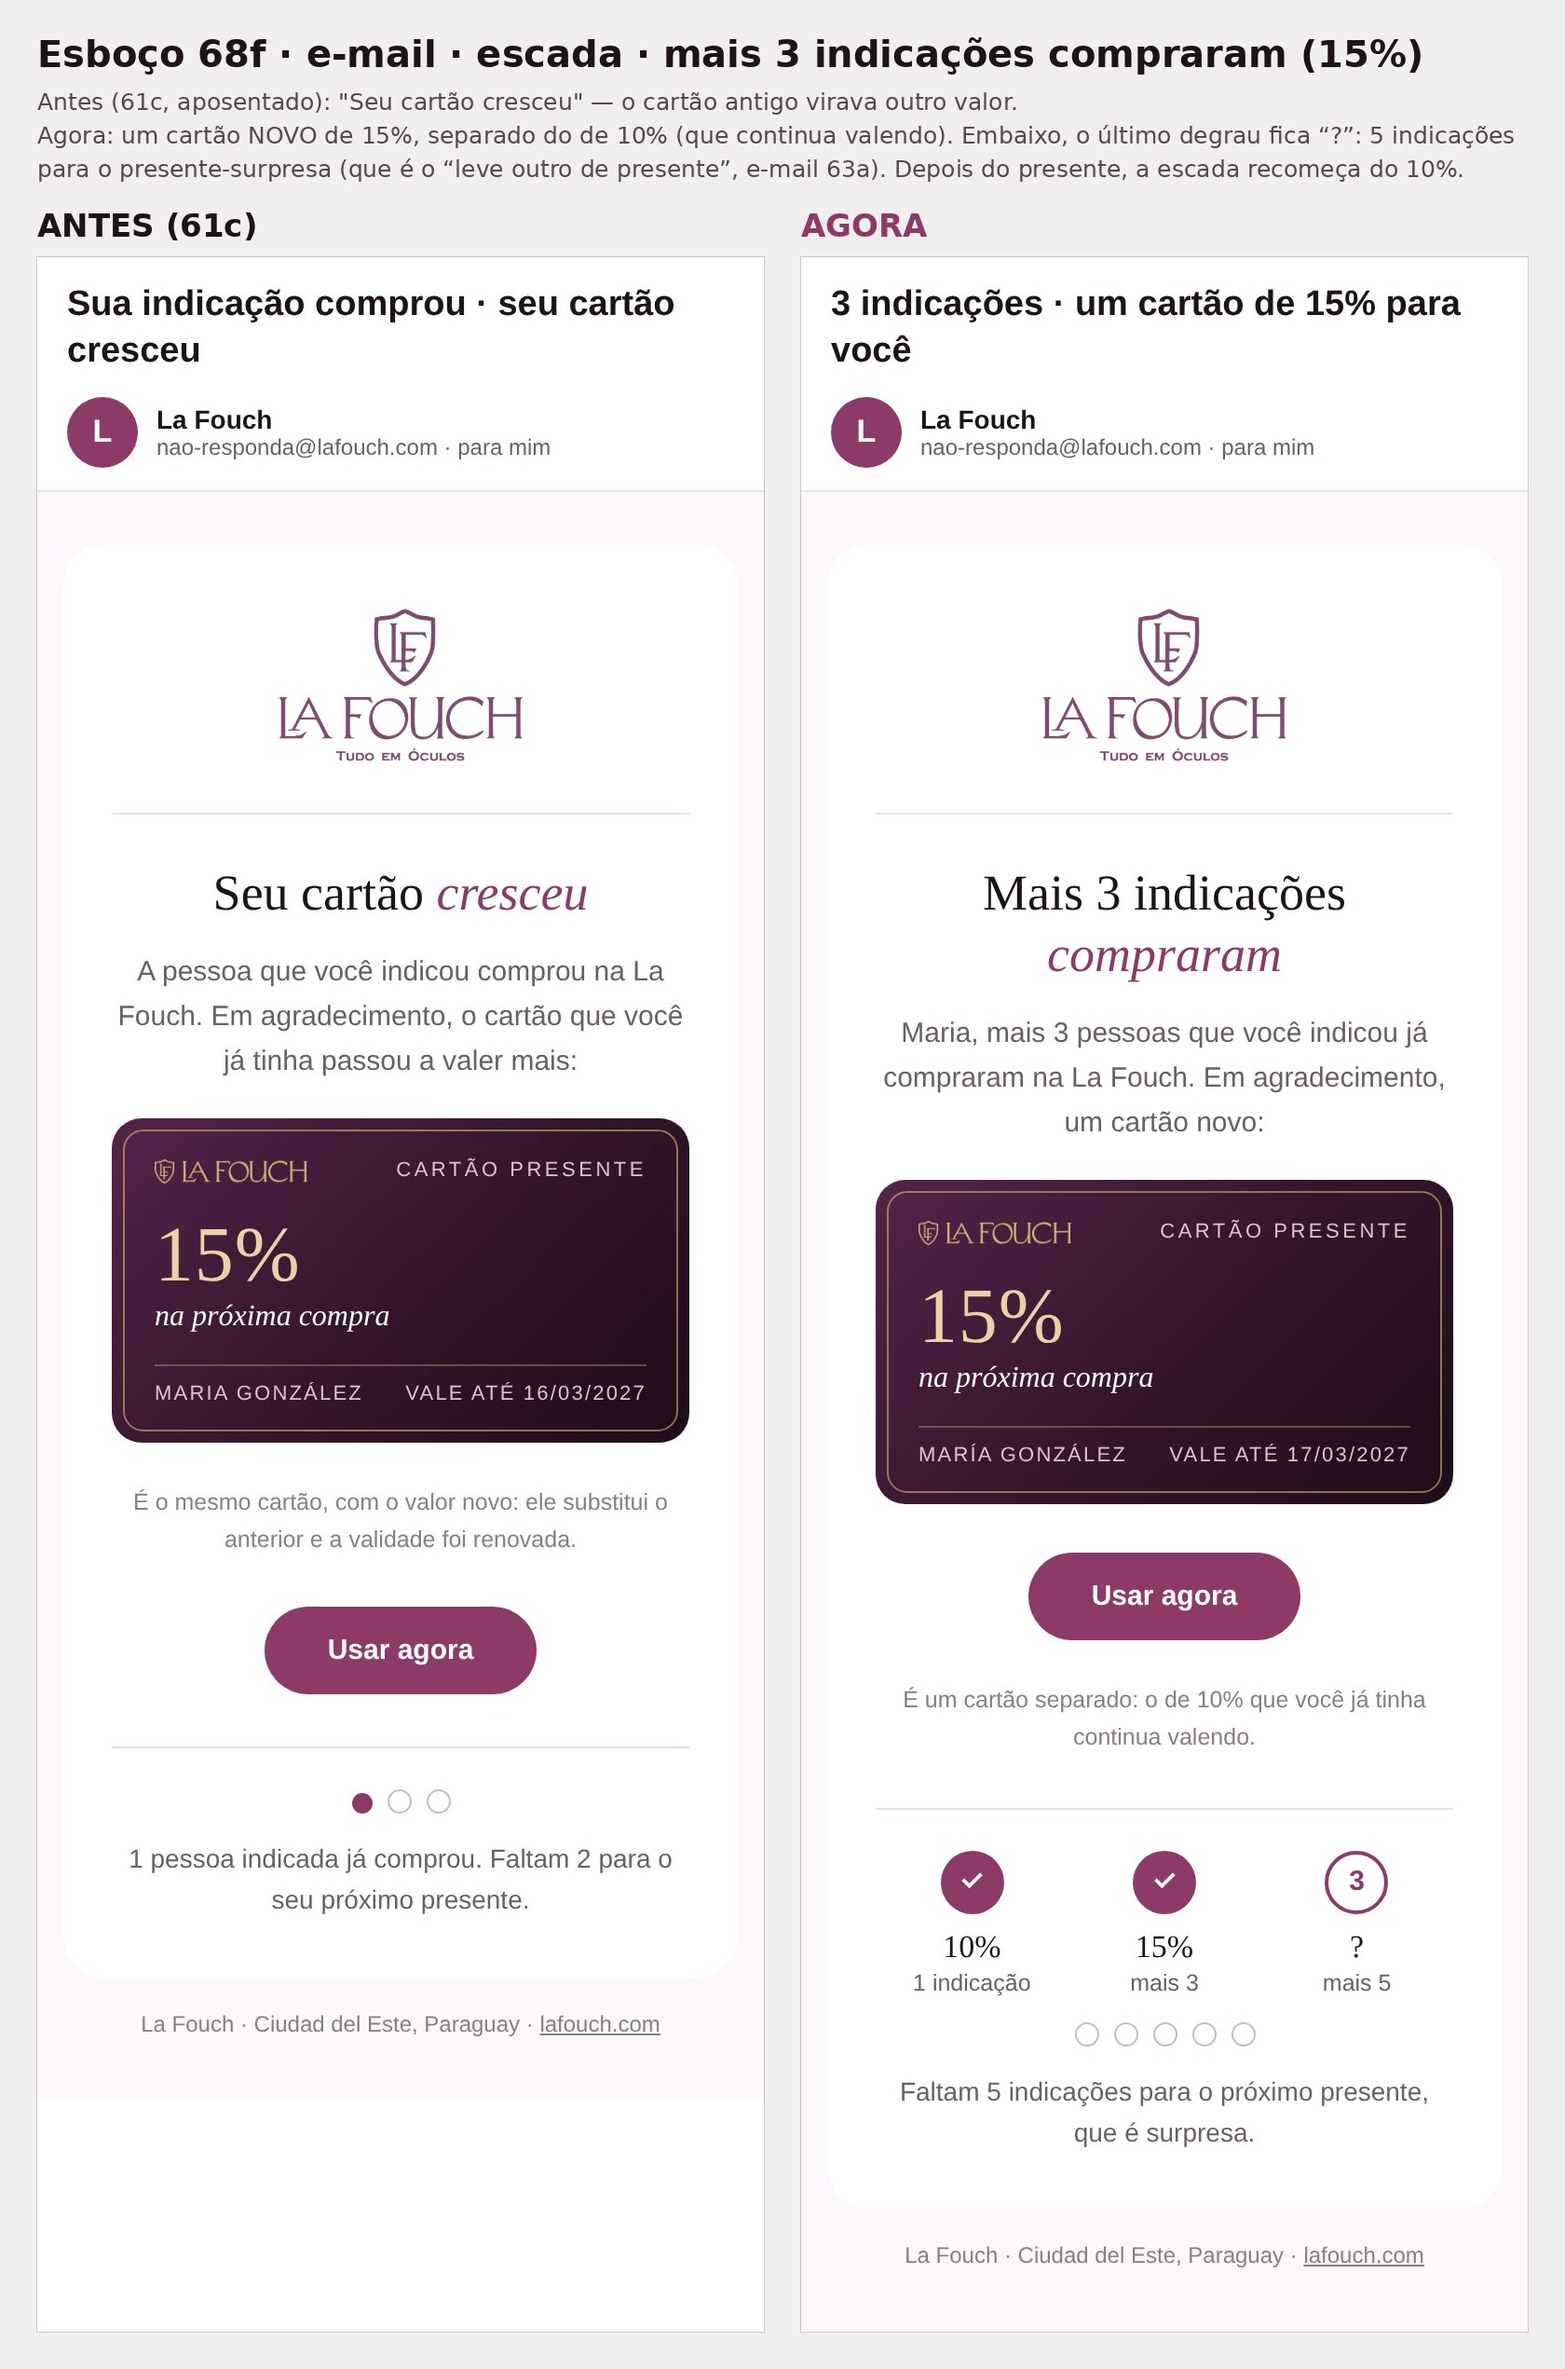
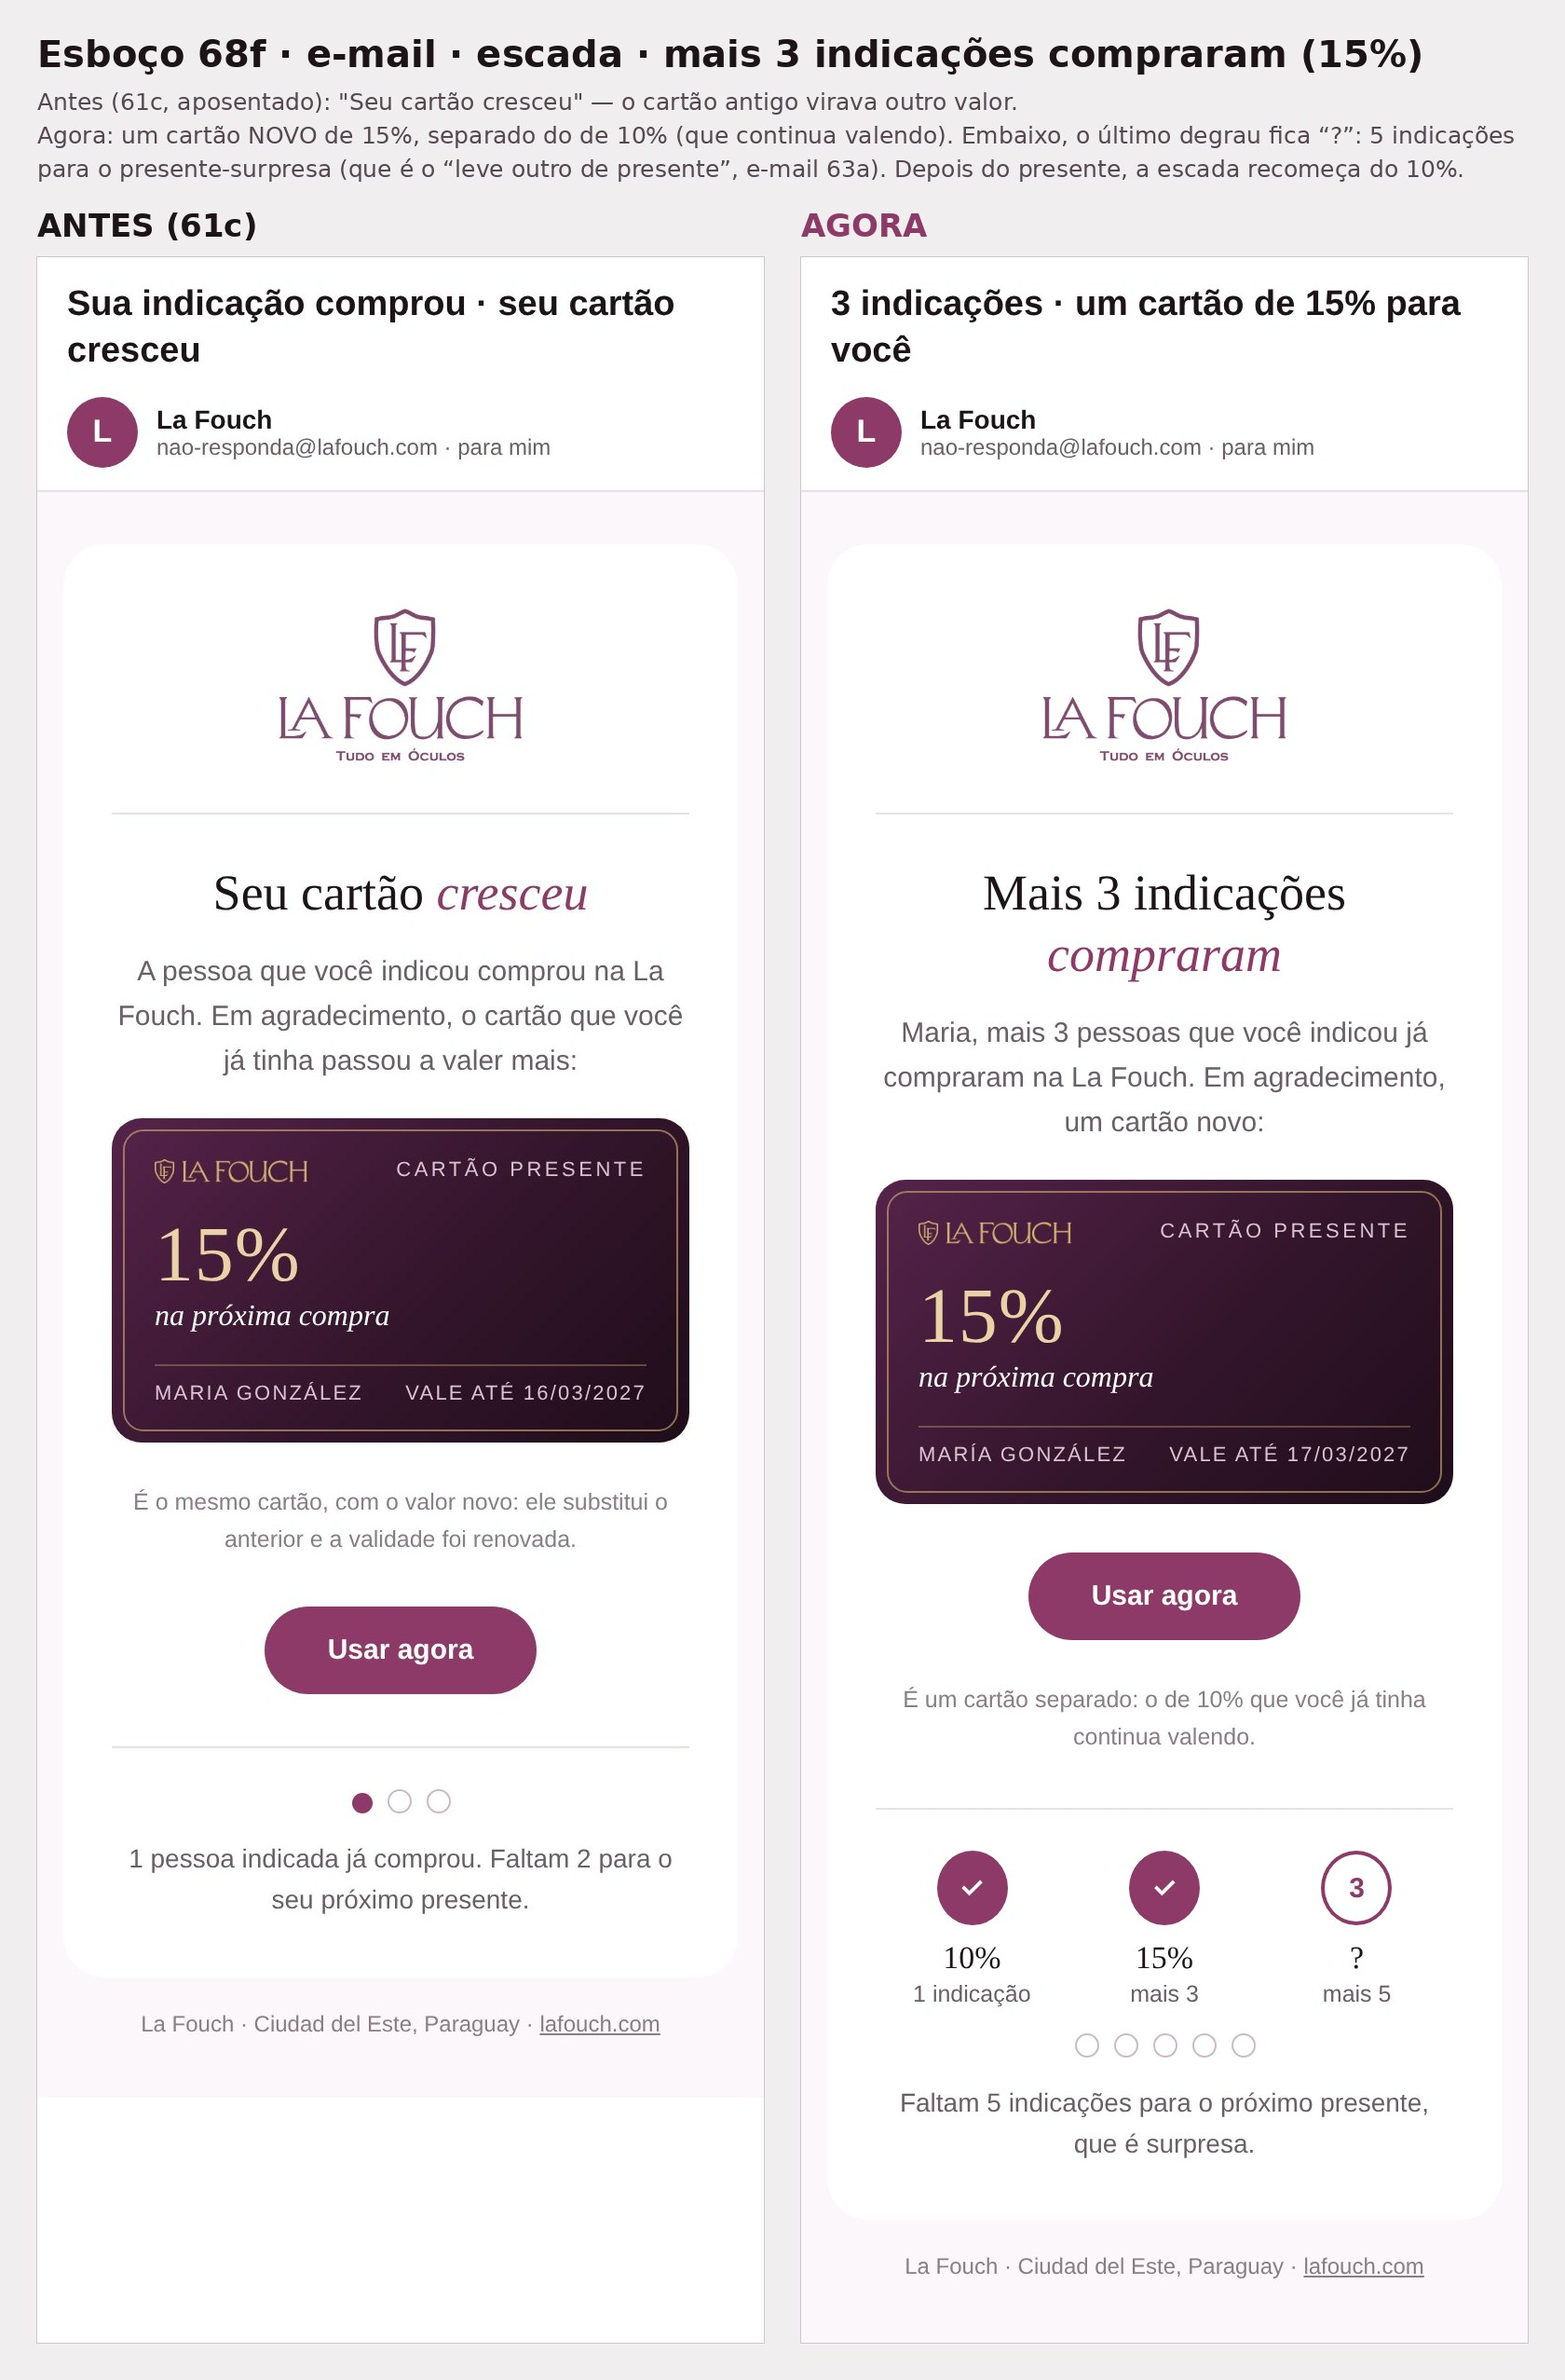
S403: números da escada centrados (68e–68g)
Claude-Session: https://claude.ai/code/session_01Vj5GPR2QjandaFr6ascRKC

diff --git a/work/s403/gera.js b/work/s403/gera.js
@@ -2,7 +2,7 @@
 const fs=require('fs'),E=require('/home/claude/lafouch/functions/email.js');
 // escada: 3 degraus (1ª indicação → 10% · mais 3 → 15% · mais 5 → presente); d = degrau em que o cliente está agora (1..3), f = indicações já feitas neste degrau
 function escada(d,f){const P=[['1 indicação','10%'],['mais 3','15%'],['mais 5','Presente']],tot=[1,3,5];
-  const td=(i)=>{const ok=i<d-1,cur=i===d-1;return '<td width="33%" style="text-align:center;vertical-align:top;padding:0 4px"><div style="width:34px;height:34px;box-sizing:border-box;margin:0 auto 8px;border-radius:50%;font:600 15px/1 Arial;'+(ok?'background:#8d3a69;color:#fff;line-height:34px':cur?'border:2px solid #8d3a69;color:#8d3a69;line-height:30px':'border:1px solid #d9cbd3;color:#b3a3ac;line-height:32px')+'">'+(ok?'✓':(i+1))+'</div><div style="font:500 17px '+E.SE+';color:'+(ok||cur?'#1d1418':'#9a8b93')+'">'+(ok?P[i][1]:'?')+'</div><div style="font:12.5px Arial;color:#6b5f66;margin-top:2px">'+P[i][0]+'</div></td>'};
+  const td=(i)=>{const ok=i<d-1,cur=i===d-1;return '<td width="33%" style="text-align:center;vertical-align:top;padding:0 4px"><table cellpadding="0" cellspacing="0" align="center" style="border-collapse:separate;margin:0 auto 8px"><tr><td width="34" height="34" align="center" valign="middle" style="width:34px;height:34px;padding:2px 0 0;border-radius:50%;text-align:center;vertical-align:middle;font:600 15px/1 Arial;'+(ok?'background:#8d3a69;color:#fff;border:2px solid #8d3a69':cur?'border:2px solid #8d3a69;color:#8d3a69':'border:2px solid #e3d7dd;color:#b3a3ac')+'">'+(ok?'✓':(i+1))+'</td></tr></table><div style="font:500 17px '+E.SE+';color:'+(ok||cur?'#1d1418':'#9a8b93')+'">'+(ok?P[i][1]:'?')+'</div><div style="font:12.5px Arial;color:#6b5f66;margin-top:2px">'+P[i][0]+'</div></td>'};
   const bola=(on)=>'<span style="display:inline-block;width:11px;height:11px;border-radius:50%;margin:0 4px;'+(on?'background:#8d3a69':'border:1px solid #cdb9c5')+'"></span>';
   let b='';for(let i=0;i<tot[d-1];i++)b+=bola(i<f);
   const falta=tot[d-1]-f,alvo='o próximo presente, que é surpresa';

diff --git a/work/s403/esb2.py b/work/s403/esb2.py
@@ -10,8 +10,8 @@ CSS=""".vst{max-width:300px;margin:0 auto 18px;border-radius:16px;background:#17
 .vst ul{list-style:none;margin:12px 0 0;padding:10px 0 0;border-top:1px solid rgba(214,178,116,.4)}.vst li{font:14px/1.5 Inter,system-ui,sans-serif;color:#e6dde2;padding:3px 0}.vst li i{font-style:normal;color:#d6b274;margin-right:8px}
 .vip1{position:absolute;top:8px;left:8px;z-index:3;padding:4px 9px;border-radius:999px;background:#17121a;border:1px solid rgba(214,178,116,.7);color:#e9d3a6;font:600 12px Inter,system-ui,sans-serif;letter-spacing:.06em}
 .vipn{margin:-4px 2px 12px;font:13.5px/1.5 Inter,system-ui,sans-serif;color:#6b5f66}.vipn b{color:#8a6a33;font-weight:600}
-.esc{display:flex;margin:4px 0 10px}.esc>div{flex:1;text-align:center}.esc i{display:block;width:34px;height:34px;box-sizing:border-box;margin:0 auto 6px;border-radius:50%;font:600 15px/30px Inter,system-ui,sans-serif;font-style:normal;border:2px solid #8d3a69;color:#8d3a69}
-.esc i.ok{background:#8d3a69;color:#fff;line-height:34px;border:0}.esc i.no{border:1px solid #d9cbd3;color:#9a8b93;line-height:32px}.esc b{display:block;font:500 17px Fraunces,Georgia,serif;color:#1d1418}.esc span{display:block;font:12.5px Inter,system-ui,sans-serif;color:#6b5f66}
+.esc{display:flex;margin:4px 0 10px}.esc>div{flex:1;text-align:center}.esc i{display:flex;align-items:center;justify-content:center;width:34px;height:34px;box-sizing:border-box;margin:0 auto 6px;border-radius:50%;font:600 15px/1 Inter,system-ui,sans-serif;font-style:normal;font-variant-numeric:tabular-nums;border:2px solid #8d3a69;color:#8d3a69;padding:2px 0 0}
+.esc i.ok{background:#8d3a69;color:#fff;border:0;padding:1px 0 0}.esc i.no{border:1px solid #d9cbd3;color:#9a8b93}.esc b{display:block;font:500 17px Fraunces,Georgia,serif;color:#1d1418}.esc span{display:block;font:12.5px Inter,system-ui,sans-serif;color:#6b5f66}
 .esd{text-align:center}.esd p{font:13.5px/1.5 Inter,system-ui,sans-serif;color:#6b5f66;margin:6px 0 0}"""
 def par(nome,abre,depois,H=844,prep=None):
     res=[]

diff --git a/docs/FALTA-APROVAR-15-11.md b/docs/FALTA-APROVAR-15-11.md
@@ -396,3 +396,4 @@ Não são esquecimento (estavam na lista, parados de propósito ou por ordem do 
 - 17/11 12:08 — DONO: 'E se só o logo ficar branco' → ESBOÇO 73f enviado: cartão original (vinho escuro, número e fio dourados) com SÓ o logo branco. ESPERANDO.
 - 17/11 12:14 — DONO: **73f APROVADO** (cartão da loja = o ORIGINAL vinho escuro, número e fio dourados, SÓ o logo branco; substitui a aprovação das 12:05 do vinho do site e o 73e), esperando 'implementar'. Precisa da imagem do logo branco (media/email/cartao-branco.png). Perguntou do VIP → ESBOÇO 73g enviado: VIP com logo dourado (hoje) × só o logo branco. ESPERANDO.
 - 17/11 12:18 — DONO: **VIP fica com o logo DOURADO** (73g, hoje) — aprovado. 68b, 68c, 68h aprovados (confirmado; 68b refeito já com 'Reserva de 3 horas'). 68e, 68f, 68g: os PRÓXIMOS degraus ficam '?' (surpresa) → refeitos (work/s403) com '?' no lugar de 15%/presente e 'Faltam N indicações para o próximo presente, que é surpresa'; 68g também 'Quando ela comprar, você avança na escada'. ESPERANDO aprovação dos três refeitos.
+- 17/11 12:21 — DONO (print do celular): números dos círculos da escada fora do centro em Minha conta; pediu alinhar bem, no e-mail também → 68e, 68f, 68g refeitos: site com o número centrado por flex (medido: miolo do número a 50% ±0,5 px); e-mail com célula de tabela 34×34 centrada (medido 50%). Ao implementar: usar essas medidas e conferir no celular. ESPERANDO aprovação.
